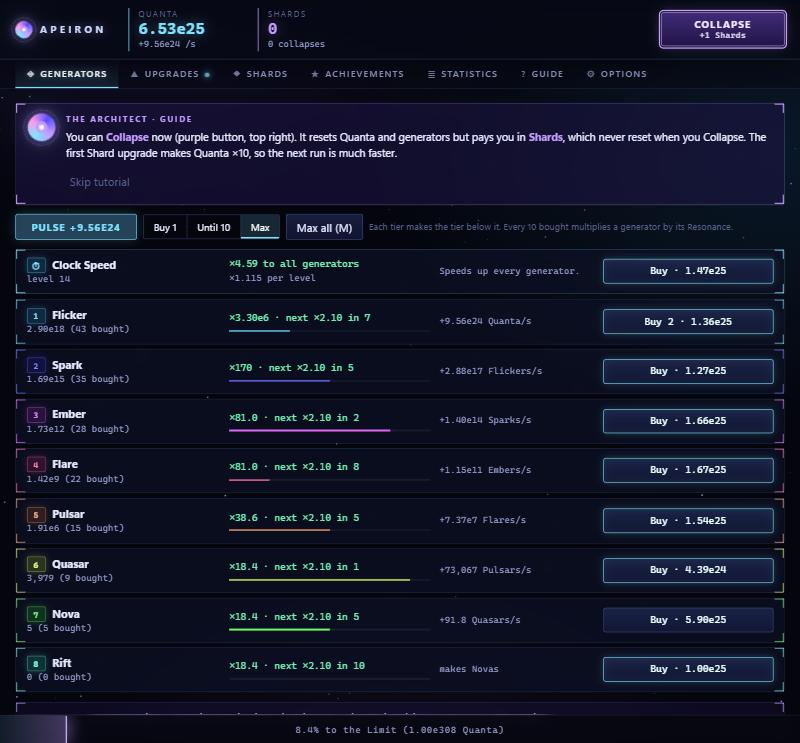
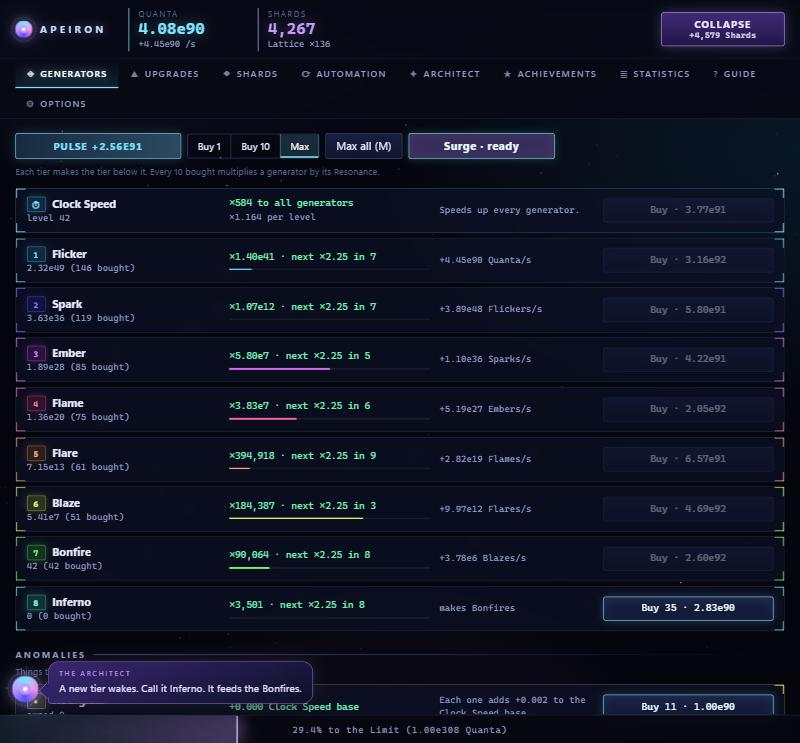
New README screenshots: generators with the speech bubble, Upgrade web, Shard web path choices

diff --git a/README.md b/README.md
@@ -19,7 +19,11 @@ You answer a signal no one was meant to hear. On the other end is **the Architec
 
 Start with a single Flicker and a handful of **Quanta**, the first light. Every generator makes the one below it: Sparks make Flickers, Embers make Sparks, and so on up a ladder with no top. When your world grows too heavy, **Collapse** it into Shards and rebuild stronger. Reach 1e308 and you hit **the Limit**, the edge where the old makers gave up. **Ascend**, break it, and find out what lies beyond.
 
-![Generators](screenshots/generators.jpg)
+![Generators, with the Architect talking in the corner](screenshots/generators.jpg)
+
+![The Upgrade web: Light, Harmony and Cascade](screenshots/upgrade-web.jpg)
+
+![The Shard web: path choices are marked CHOOSE ONE](screenshots/shard-web.jpg)
 
 ## Features
 
